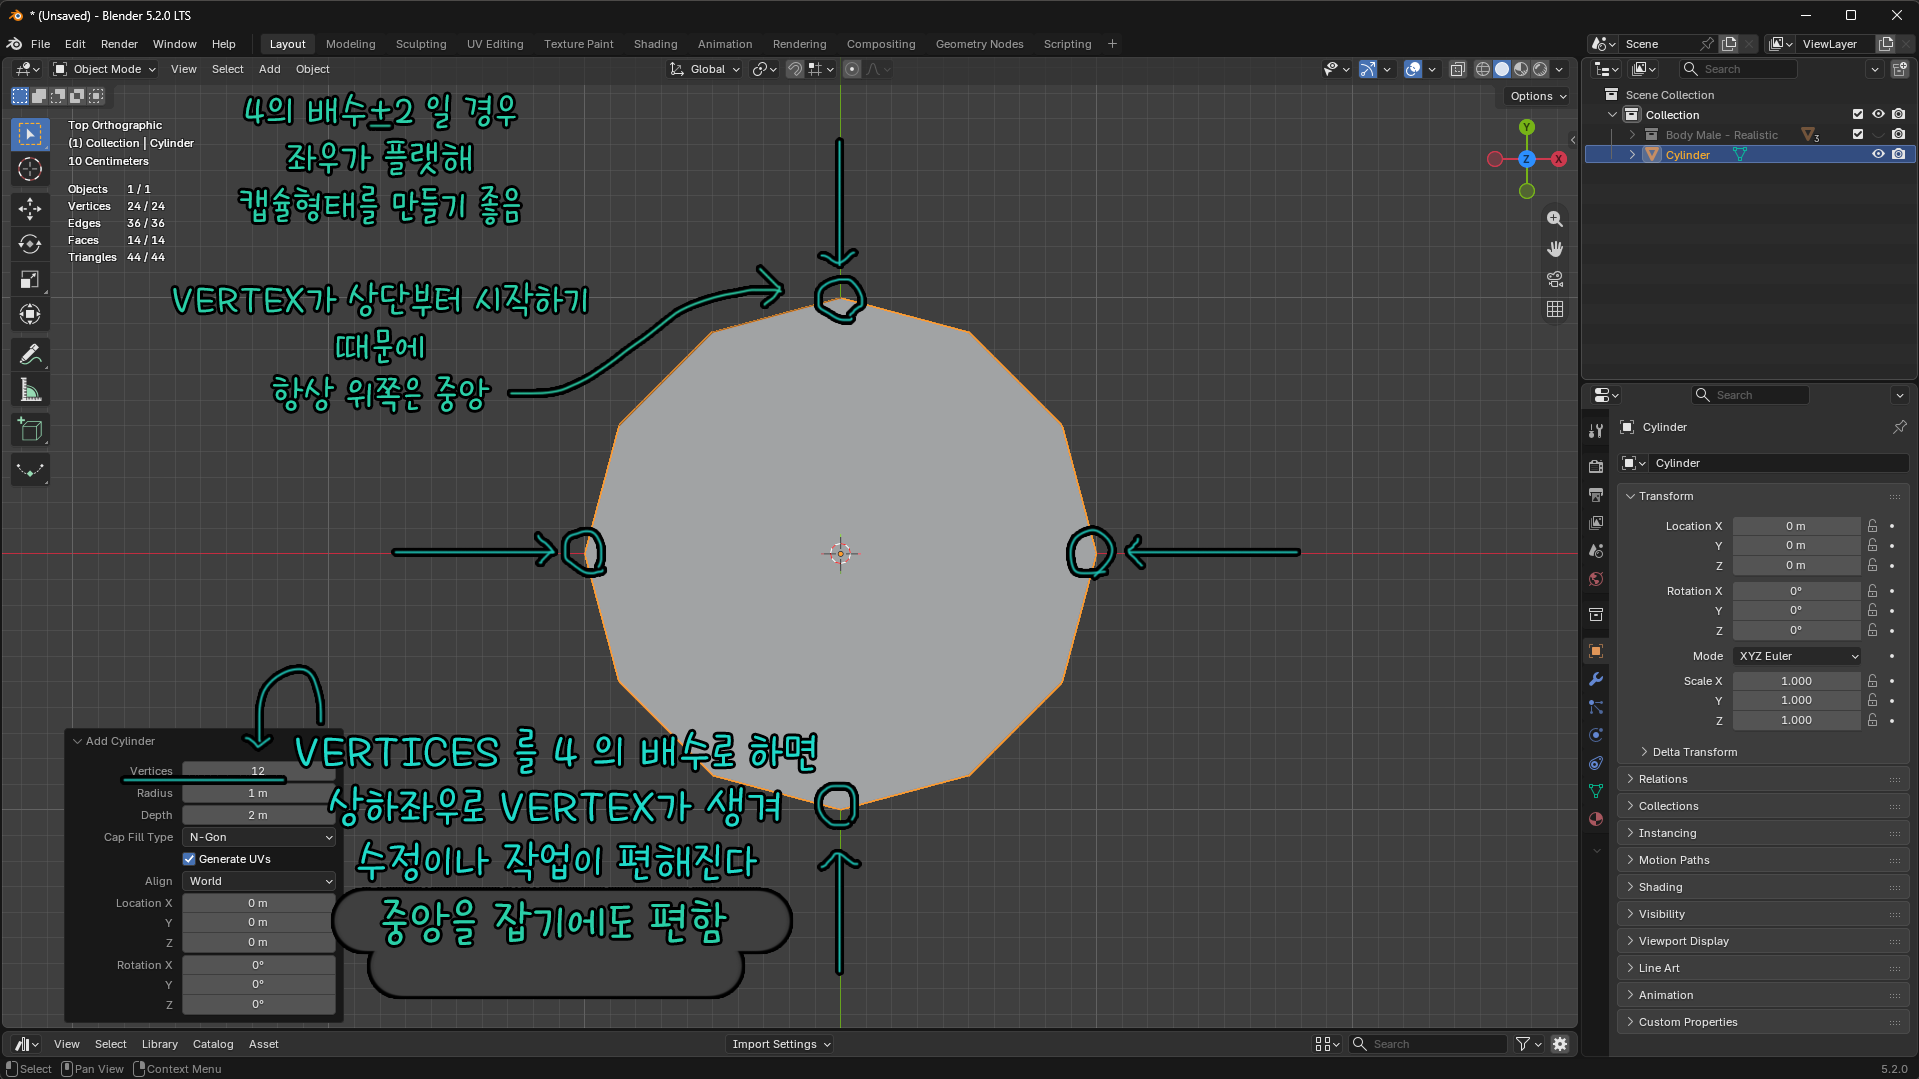
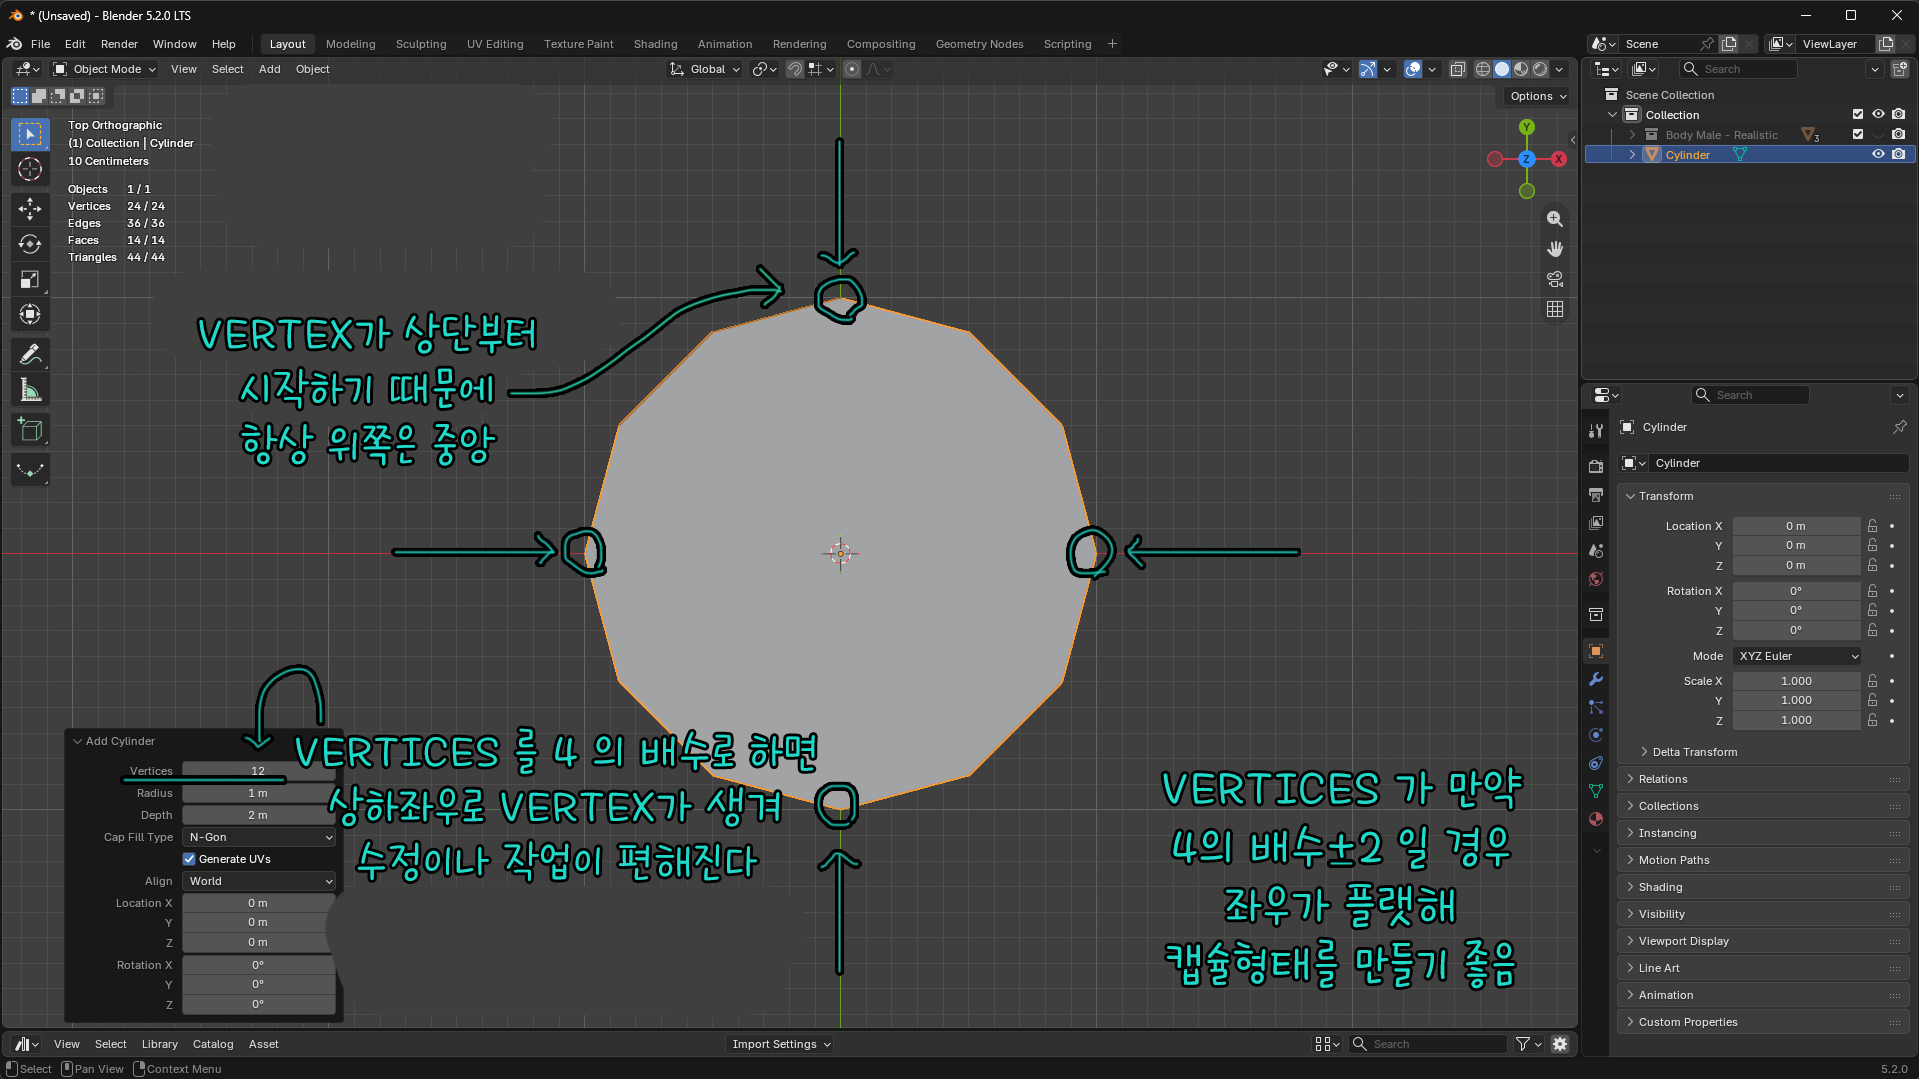
no message

diff --git a/_posts/Blender/2026-01-02-blender-setting-tenkeyless.md b/_posts/Blender/2026-01-02-blender-setting-tenkeyless.md
@@ -1,5 +1,5 @@
 ---
-title: "블렌더 세팅:텐키리스"
+title: "블렌더 세팅/작업 환경: 텐키리스 키보드"
 categories: Blender
 # excerpt: ""
 ---
@@ -12,7 +12,19 @@ categories: Blender
 
 
 
-# 📌 텐키리스 축 뷰 단축키 수정
+# 📌 축 뷰 단축키 수정
 {: .notice}
 
-<img src="/img/Blender/tenkeyless-axis.png"/>
+<span class="color-keyword">Edit → Preferences... → Keymap → Name 필터에 View Axis</span>
+
+<span class="color-variable">Front</span> Shift + Ctrl + Alt + 2
+
+<span class="color-variable">Right</span> Shift + Ctrl + Alt + Q
+
+<span class="color-variable">Top</span> Shift + Ctrl + Alt + E
+
+<span class="color-variable">Back</span> Shift + Ctrl + Alt + W
+
+<span class="color-variable">Left</span> Shift + Ctrl + Alt + 1
+
+<span class="color-variable">Bottom</span> Shift + Ctrl + Alt + 3

diff --git a/_posts/Blender/2026-01-06-blender-note-non-manifold.md b/_posts/Blender/2026-01-06-blender-note-non-manifold.md
@@ -15,16 +15,16 @@ categories: Blender
 # 📌 Non-Manifold
 {: .notice}
 
-큐브로 예를 들었을 때:
+<span class="color-variable">큐브로 예를 들었을 때</span>
 
 면이 삭제되어 구멍이 뚫려있는 경우, 내부에 면이 들어가 있는 경우를 Non-Manifold라 말한다
 
-이 경우들은 공통적으로:
+<span class="color-variable">이 경우들은 공통적으로</span>
 
 하나의 Edge에 한 개 또는 세 개 이상의 Face가 있는 경우이다
 
 <span class="color-comment">(하나의 Edge에는 두 개의 Face가 있어야 한다)</span>
 
-Non-Manifold가 생기면 발생하는 문제는:
+<span class="color-variable">Non-Manifold가 생기면 발생하는 문제는</span>
 
 Subdivision, UV, Shading, 리깅, 애니메이션 중 문제가 생길 수 있다

diff --git a/_posts/Blender/2026-01-06-blender-note-triangle-quad-n-gon.md b/_posts/Blender/2026-01-06-blender-note-triangle-quad-n-gon.md
@@ -1,5 +1,5 @@
 ---
-title: "R값과 Triangle, Quad, N-gon"
+title: "블렌더 노트: Triangle, Quad, N-gon"
 categories: Blender
 # excerpt: ""
 ---
@@ -8,14 +8,6 @@ categories: Blender
 
 
 <span style="color:gray">blender version 5.2.0</span>
-
-
-
-
-# 📌 R값?
-{: .notice}
-
-• <span class="color-keyword">R값</span> : 모서리 부분에 라운딩을 줌(곡면을 만듦)
 
 
 
@@ -44,11 +36,3 @@ UV 언랩이 쉬워짐
 애니메이션 미 적용 시
 
 리깅 사용 안 할 시
-
-
-
-
-# 📌 실린더 4 배수
-{: .notice}
-
-<img src="/img/Blender/4-multi-cylinder.png"/>

diff --git a/_posts/Blender/2026-01-06-blender-note-4-multi-cylinder.md b/_posts/Blender/2026-01-06-blender-note-4-multi-cylinder.md
@@ -1,0 +1,18 @@
+---
+title: "블렌더 노트: 실린더와 4의 배수"
+categories: Blender
+# excerpt: ""
+---
+
+
+
+
+<span style="color:gray">blender version 5.2.0</span>
+
+
+
+
+# 📌 실린더와 4의 배수의 관계
+{: .notice}
+
+<img src="/img/Blender/4-multi-cylinder.png"/>

diff --git a/_posts/Blender/2026-01-06-belnder-note-r-value.md b/_posts/Blender/2026-01-06-belnder-note-r-value.md
@@ -1,0 +1,18 @@
+---
+title: "블렌더 노트: R값"
+categories: Blender
+# excerpt: ""
+---
+
+
+
+
+<span style="color:gray">blender version 5.2.0</span>
+
+
+
+
+# 📌 R값
+{: .notice}
+
+모서리 부분에 라운딩을 줌(곡면을 만듦)

diff --git a/_posts/Blender/2026-01-01-blender-setting.md b/_posts/Blender/2026-01-01-blender-setting.md
@@ -1,5 +1,5 @@
 ---
-title: "블렌더 세팅"
+title: "블렌더 세팅/작업 환경"
 categories: Blender
 # excerpt: ""
 ---
